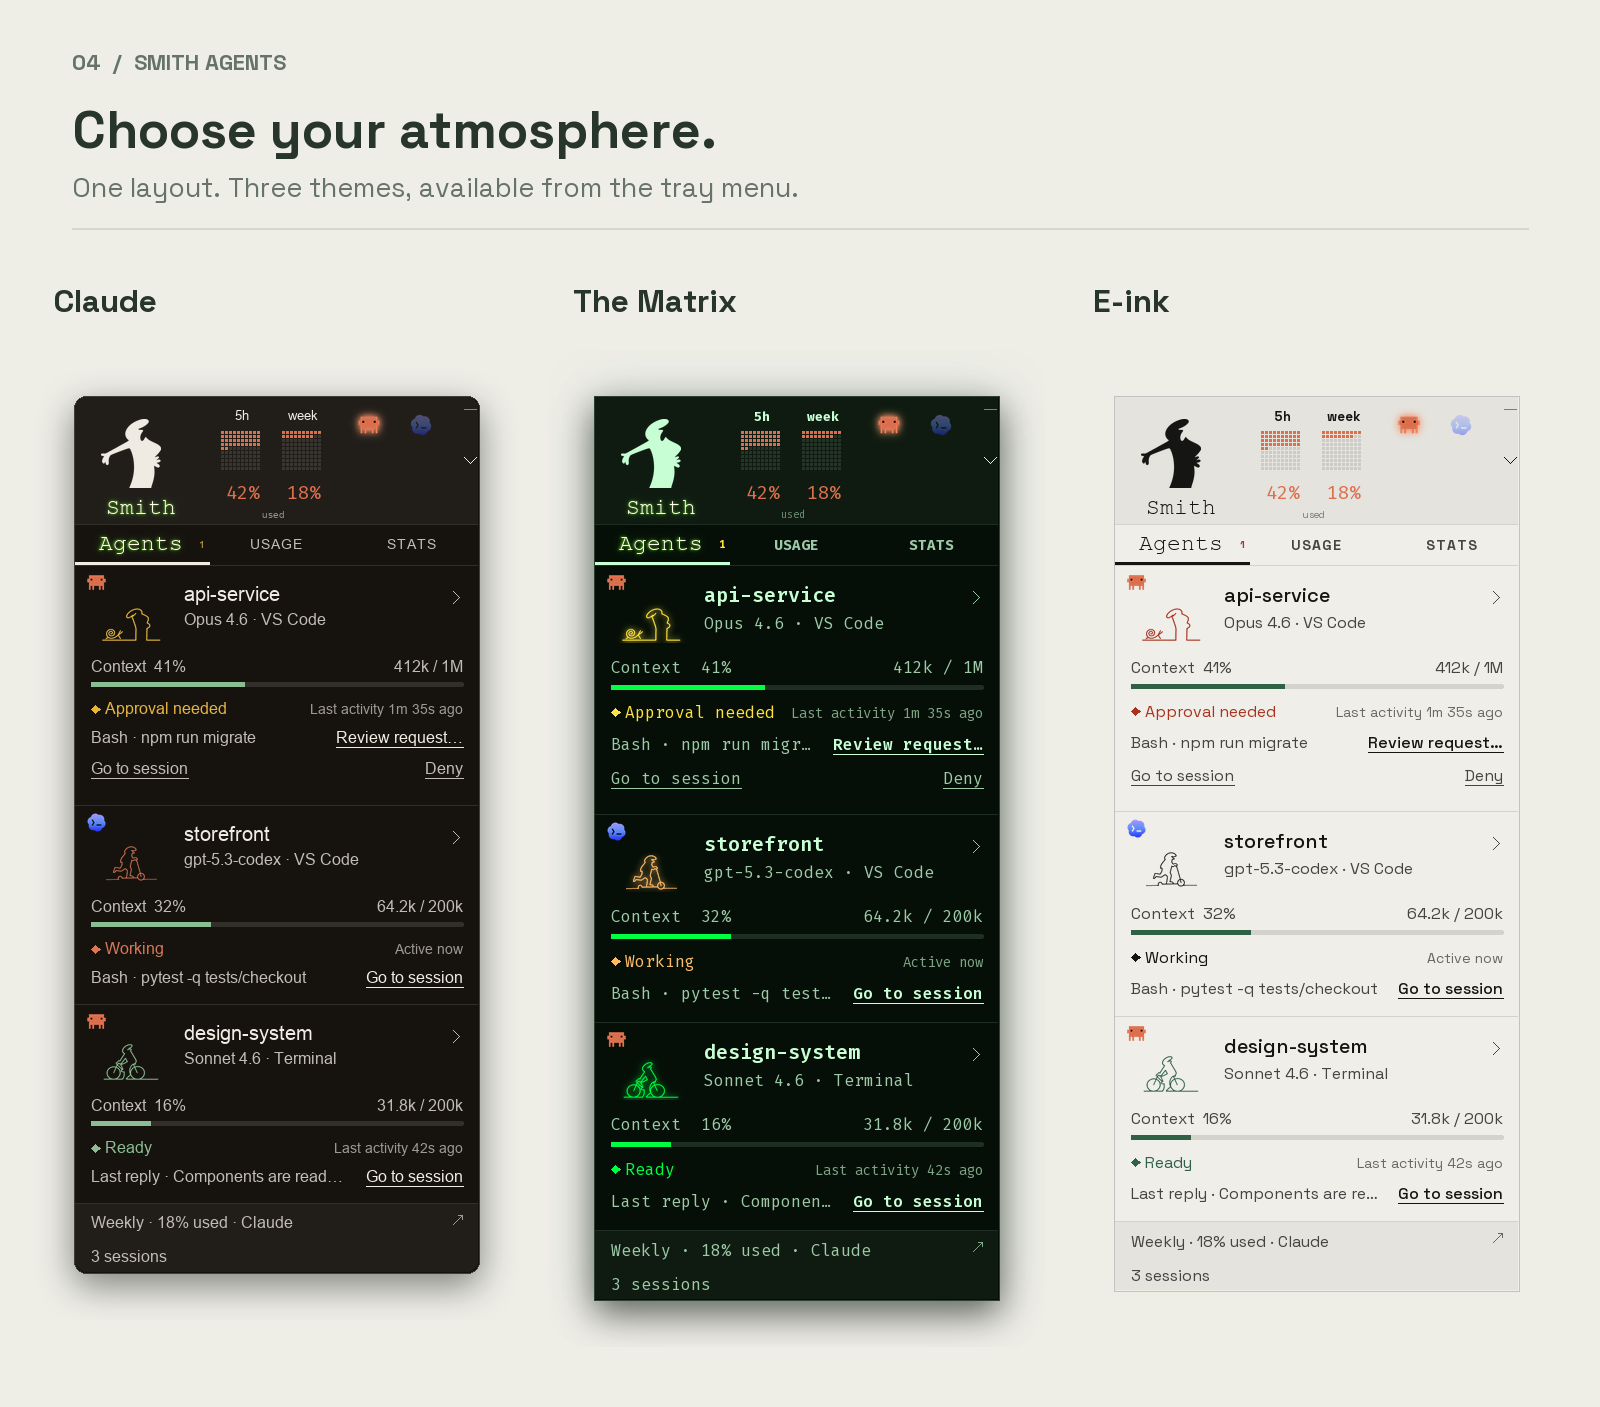
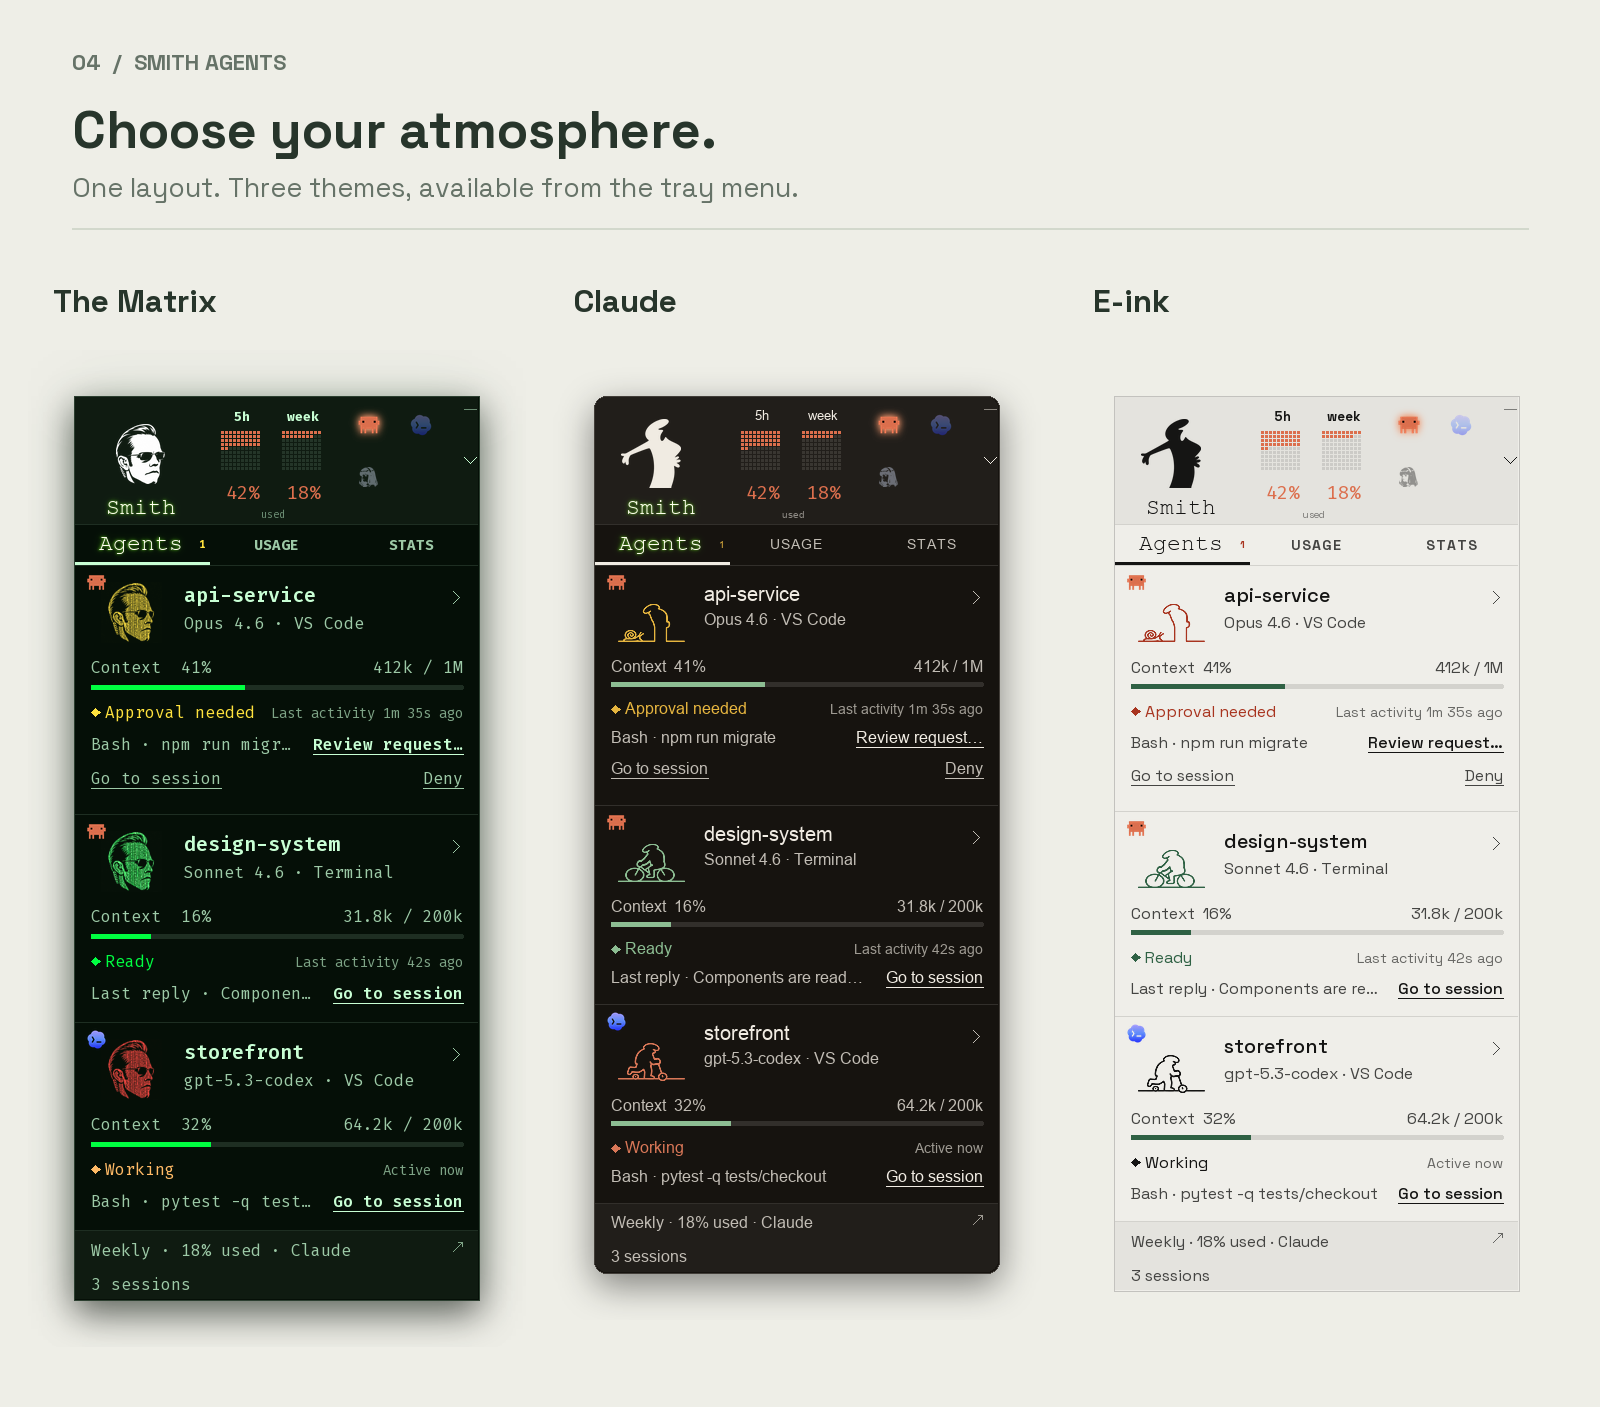
Show the README in the Matrix theme it defaults to
Matrix has been the default theme since d0e2cdf, but every README
image except the theme strip was still rendered in Claude, so the
first thing a visitor saw was not what they would install.

Render the hero, panel, usage and tuck images in Matrix, lead the theme
strip with it, and let the strip's labels follow the theme order rather
than a hardcoded list that had just gone out of step. The tucked
renders pick up the front-window bar and the drawer's window caption:
the storefront session is marked as the window being typed in.

diff --git a/tools/render_readme_images.py b/tools/render_readme_images.py
@@ -17,7 +17,8 @@ from pathlib import Path
 
 ROOT = Path(__file__).resolve().parent.parent
 OUT = ROOT / "docs" / "images"
-THEMES = ("claude", "matrix", "eink")
+# Matrix leads: it is the default theme, and the one the README shows first.
+THEMES = ("matrix", "claude", "eink")
 
 # One set of sessions for every image, so counts and names always agree.
 # Idle times are seconds since the session's last transcript write.
@@ -28,7 +29,8 @@ SESSIONS = [
      "last_request": "Add coupon support to checkout and cover it with tests.",
      "latest_message": "Coupons apply at checkout. Running the test suite now.",
      "context_tokens": 64200, "context_capacity": 200000,
-     "_window_state": "background", "can_terminate": False},
+     # the session being typed in: its cell wears the front bar when tucked
+     "_window_state": "front", "can_terminate": False},
     # In-widget Allow/Deny exists only for Claude Code in VS Code with the
     # optional launcher, so the session asking for approval is a VS Code one.
     {"id": "readme-api", "name": "api-service", "provider": "claude",
@@ -235,7 +237,8 @@ def compose_themes(themes):
     consoles = [load(parts, "console-claude") for parts in themes]
     canvas, pen = sheet(max(im.height for im in consoles) + 410, "04", "Choose your atmosphere.",
                         "One layout. Three themes, available from the tray menu.")
-    for x, console, label in zip((28, 548, 1068), consoles, ("Claude", "The Matrix", "E-ink")):
+    labels = {"matrix": "The Matrix", "claude": "Claude", "eink": "E-ink"}
+    for x, console, label in zip((28, 548, 1068), consoles, (labels[t] for t in THEMES)):
         pen.text((x + 25, 280), label, font=font(32, True), fill=INK)
         canvas.alpha_composite(console, (x, 350))
     return canvas
@@ -255,7 +258,7 @@ def main():
     with tempfile.TemporaryDirectory() as scratch:
         scratch = Path(scratch)
         parts = scratch / "main"
-        render_theme("claude", 2.5, parts)
+        render_theme("matrix", 2.5, parts)
         themes = []
         for theme in THEMES:
             theme_parts = scratch / theme

diff --git a/README.md b/README.md
@@ -1,5 +1,5 @@
 <p align="center">
-  <img src="docs/images/github-smith-agents-hero.png" alt="Smith Agents: Your agents. In view. The current widget shows Claude and Codex sessions with figures, context, activity, and separate 5-hour and weekly usage fields." width="880">
+  <img src="docs/images/github-smith-agents-hero.png" alt="Smith Agents: Your agents. In view. The Matrix widget shows Claude and Codex sessions as code-drawn portraits with context, activity, and separate 5-hour and weekly usage fields." width="880">
 </p>
 
 <p align="center">
@@ -20,7 +20,7 @@ your screen.
 
 ## Your sessions at a glance
 
-<img src="docs/images/github-signal-field-work.png" alt="The current session panel: project identity and provider above context, activity below, and an expanded storefront card with Go to session and folded Read more controls." width="880">
+<img src="docs/images/github-signal-field-work.png" alt="The Matrix session panel: a portrait and project identity above context, activity below, and an expanded storefront card with Go to session and folded Read more controls." width="880">
 
 Click a session to open its current activity or latest reply. **Go to session**
 brings you back to its app. Extra controls and metadata stay folded under
@@ -48,7 +48,7 @@ about every five minutes, or through **Refresh now** in the tray menu.
 
 ## Small at every edge
 
-<img src="docs/images/github-signal-field-tuck.png" alt="The current horizontal and vertical tucked layouts with icon-only Smith branding, glowing provider logos, agent figures, and attached Claude and Codex usage drawers." width="880">
+<img src="docs/images/github-signal-field-tuck.png" alt="The Matrix tucked layouts, horizontal and vertical: icon-only Smith branding, glowing provider logos, portrait cells with a bar marking the session whose window is in front, and attached Claude and Codex usage drawers reading 5h used." width="880">
 
 Tuck to the **top, bottom, left, or right edge of your screen**, independent of
 editor and terminal windows.
@@ -60,7 +60,7 @@ editor and terminal windows.
 
 ## Pick a theme
 
-<img src="docs/images/github-signal-field-themes.png" alt="The current Smith Agents layout in Claude, The Matrix, and E-ink themes." width="880">
+<img src="docs/images/github-signal-field-themes.png" alt="The Smith Agents layout in The Matrix, Claude, and E-ink themes." width="880">
 
 Choose **Claude**, **The Matrix**, or **E-ink** from the tray or menu-bar menu.
 
